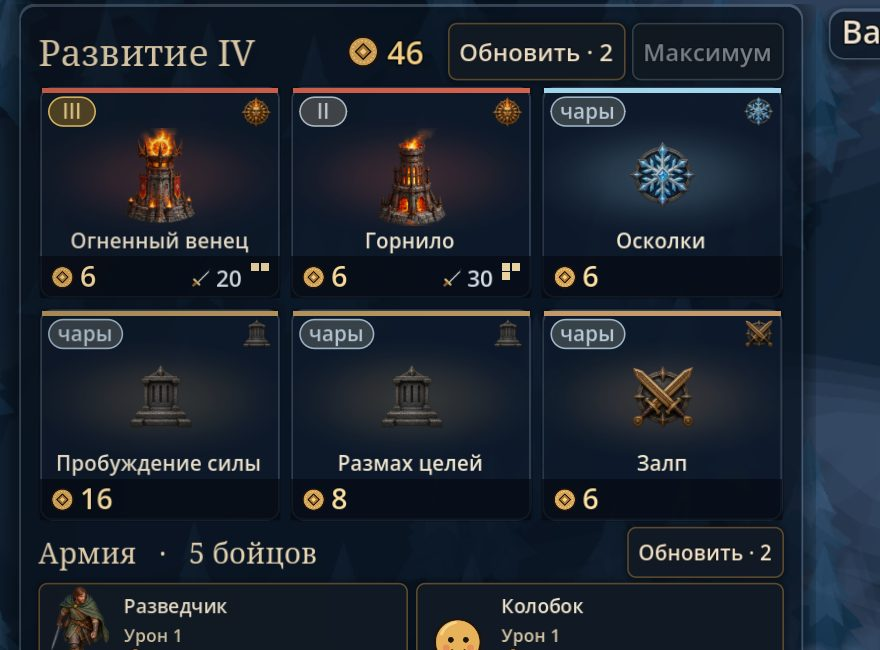
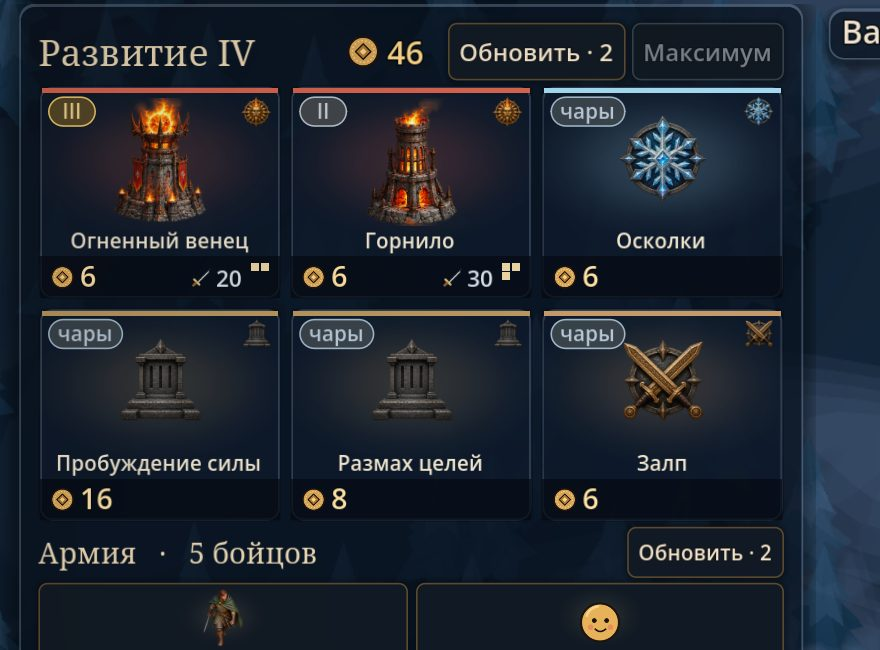
Визуал: крупнее картинки в карточках лавки; отчёт и память

diff --git a/docs/presentation/2026-11-03-3d-mvp.html b/docs/presentation/2026-11-03-3d-mvp.html
@@ -109,6 +109,7 @@ ol.rounds li{margin:10px 0}
 <li><b>Ровные места.</b> Террасы соседних колонок отличались на 1–2 м — фигура на 2 клетки стояла криво. Теперь каждая полоса мест между дорогами — одна ровная каменная площадка из плит 2×2 м с основанием до склона. Сетка «рюкзака» читается сразу.</li>
 <li><b>Современный рендер.</b> Проект переведён на <b>Forward+</b> (Vulkan): затенение в углах (SSAO/SSIL), мягкие тени, процедурная фактура и рельеф камня у плит и башен. Заодно быстрее: 111 FPS в начале волны, 74 при 150 мобах на каждом поле.</li>
 <li><b>Карточки лавки как в концепте.</b> Бейдж тира I/II/III (бронза/серебро/золото), символ стихии, картинка меньше, внизу плашка: крупная цена (красная при нехватке), урон со значком меча и форма фигуры. Подсказка: стихия, описание, урон, радиус, скорострельность, площадь.</li>
+<li><b>Карточки армии</b> — в том же стиле: портрет, имя, плашка с ценой и уроном. Тост итога боя — стеклянный, над нижним рядом.</li>
 <li><b>Тёплый свет.</b> По углам каждой площадки — каменные жаровни с огнём и светом (FPS при нагрузке 69–76).</li>
 <li><b>Ровный интерфейс.</b> Нижний ряд — стеклянный блок «Идолы» и карточка героя одной высоты с ровными отступами; армия: заголовок и реролл одной строкой; лавка по содержимому без пустой дыры; раунд/фаза и «Ваше поле» — на стеклянных плашках.</li>
 </ul>

diff --git a/memory/CURRENT.md b/memory/CURRENT.md
@@ -7,6 +7,8 @@
 - Рендер **Forward+** (SSAO/SSIL); FPS 111 / 74 при 150 мобах на поле.
 - Карточка лавки `market_offer.gd` переписана (тир, стихия, цена, урон, форма, подсказка).
 - Нижний ряд: «Идолы» + герой; стеклянные плашки раунда и названия поля.
+- Жаровни по углам площадок, замки на закрытых местах, карточки армии в стиле лавки,
+  стеклянный тост над нижним рядом.
 - Смок-тест: в 3D пропускает клетки дороги (их заслоняют площадки).
 Отчёт дополнен разделом «Второй заход». Дальше: оценка автора, туман закрытых мест
 понятнее (замок?), фронтальные стены площадок высокие (до 2.25 м) — может, ниже ступенями.
